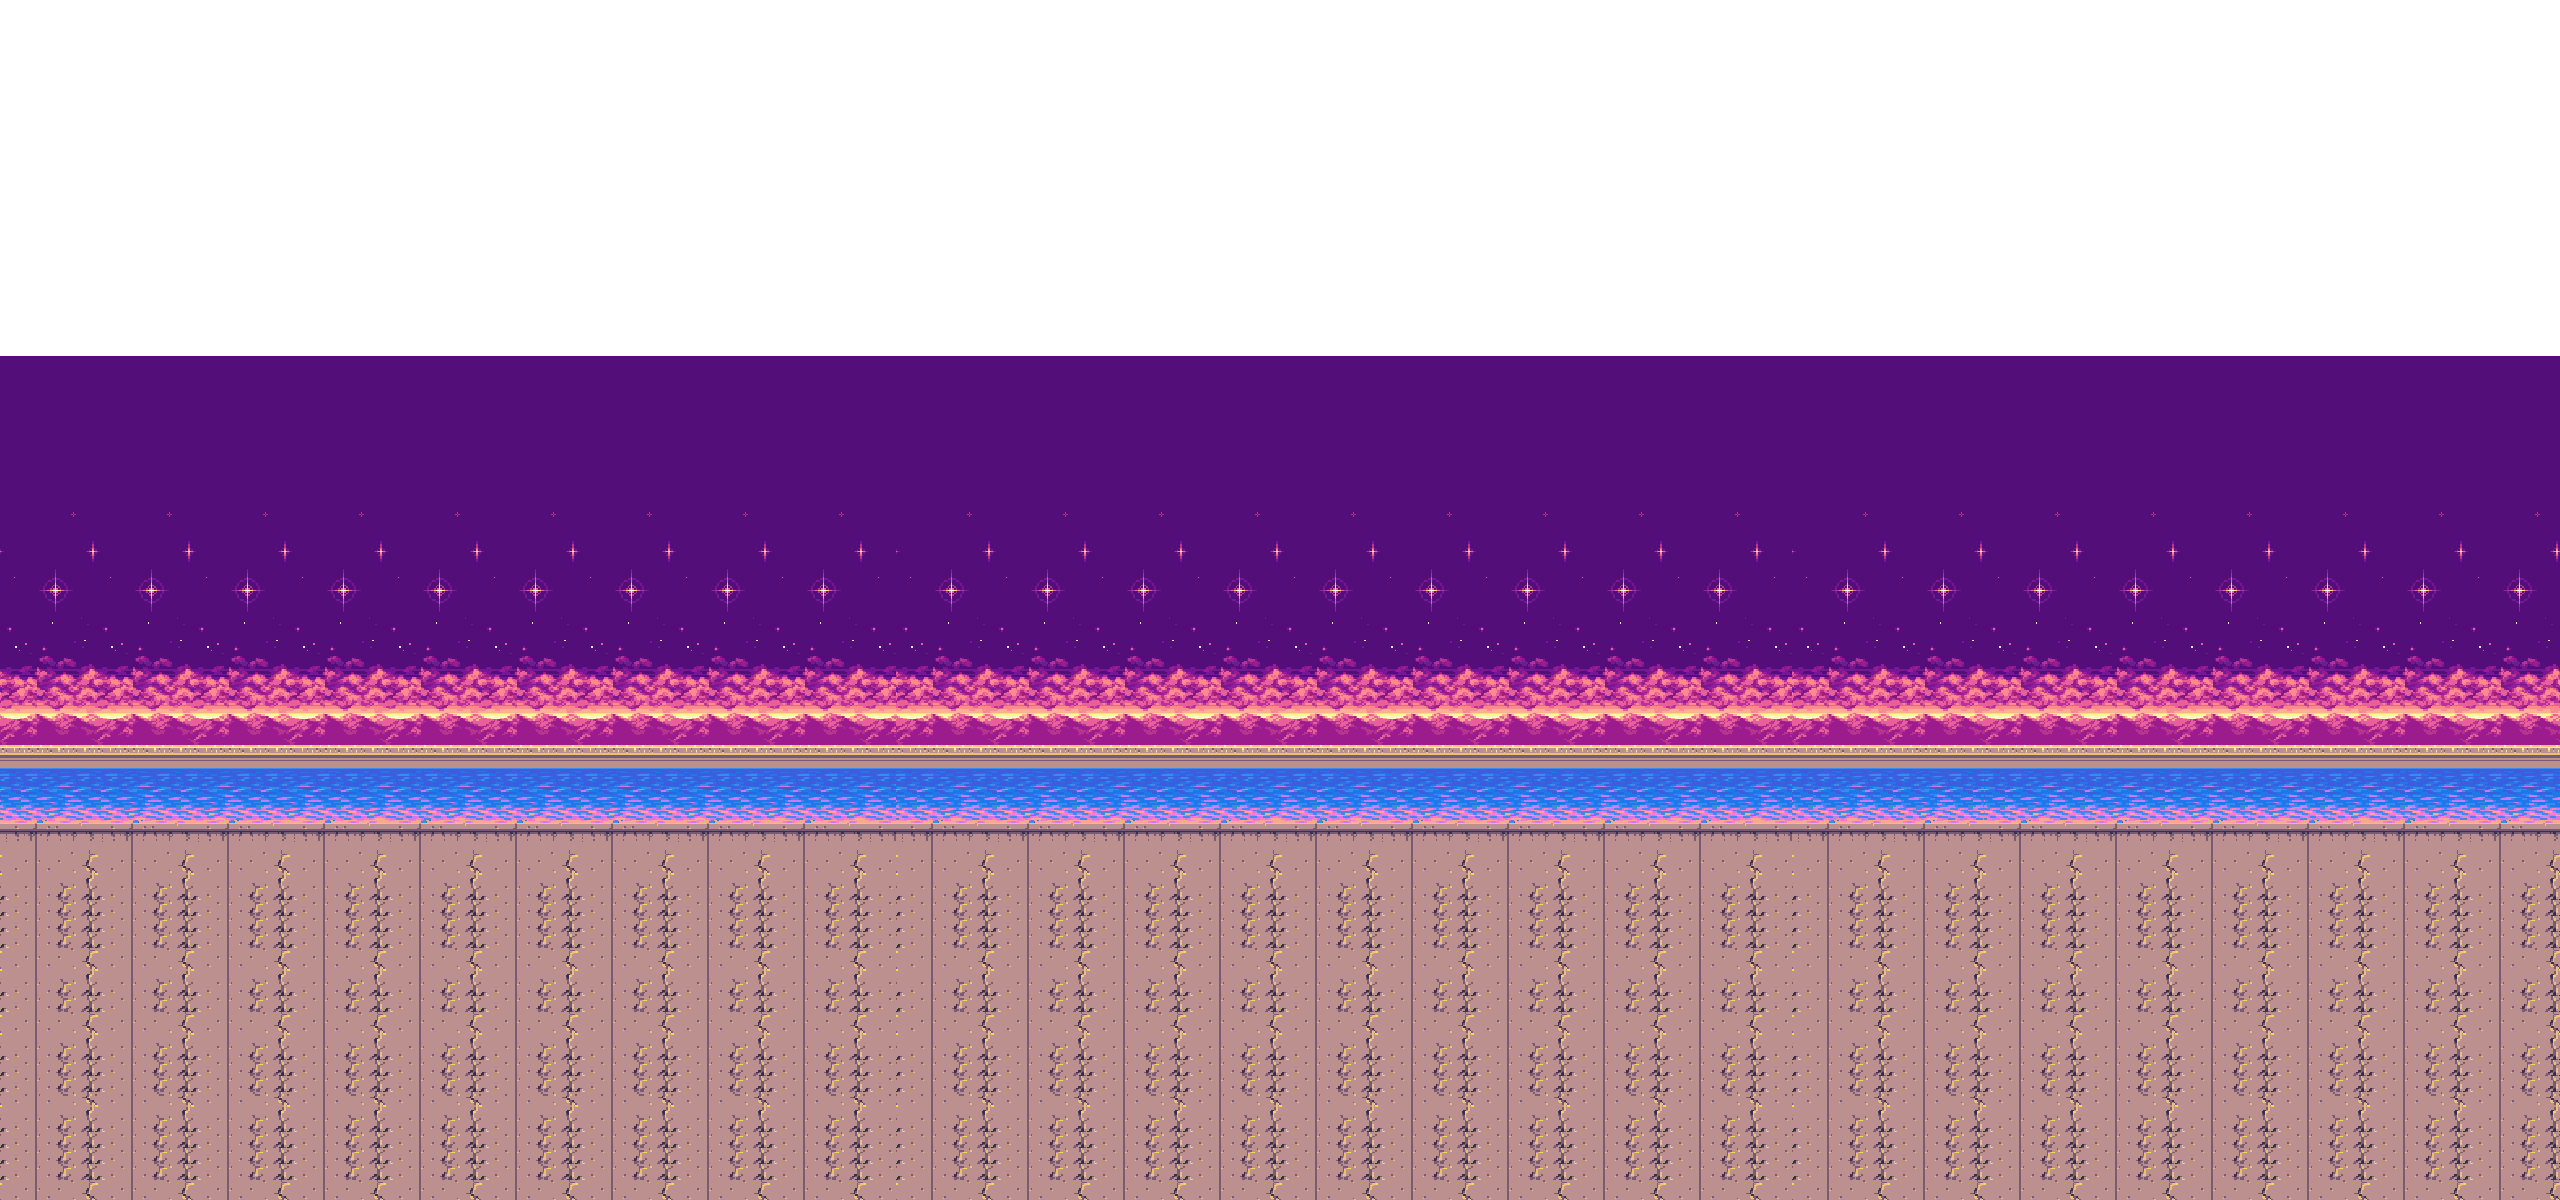
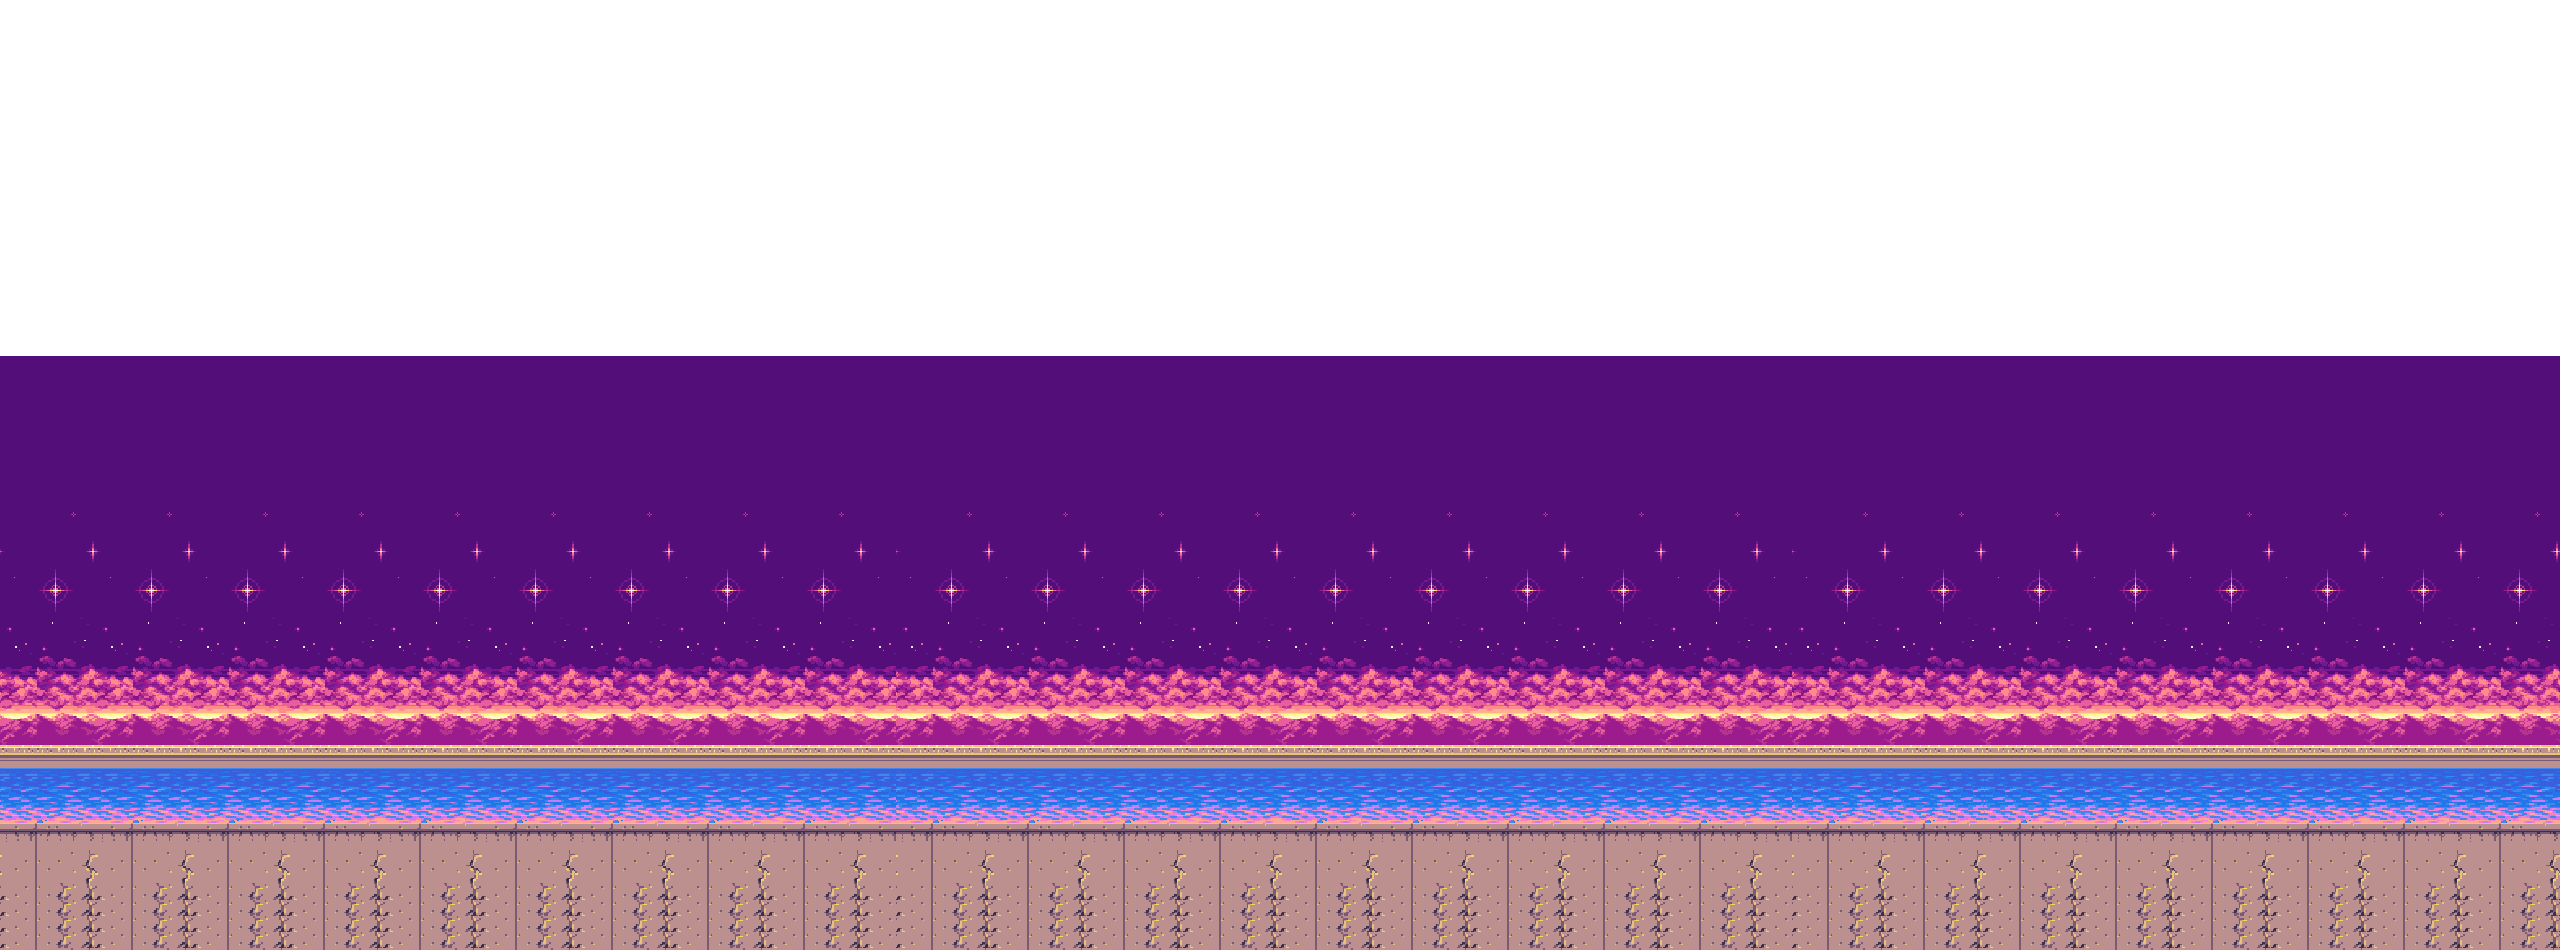
zoomed in background

diff --git a/src/pages/Download.tsx b/src/pages/Download.tsx
@@ -44,8 +44,8 @@ const Download = () => {
     <div className="m-auto text-white font-outfit text-xl lg:text-xl 2xl:text-3xl">
       {/* Hill and water backgrounds */}
       <div className="relative w-full min-h-screen bg-fixed overflow-hidden bg-[#530e7a]">
-        <div className="backgroundLayer repeatBGLayer bg-[url(/BG_DW_1.png)]"/>
-        <div className="backgroundLayer bg-[url(/BG_DW_2.png)]"/>
+        <div className="backgroundLayerBig repeatBGLayer bg-[url(/BG_DW_1.png)]"/>
+        <div className="backgroundLayerBig bg-[url(/BG_DW_2.png)]"/>
         
         <div className='relative w-full min-h-screen flex gap-10 flex-col lg:flex-row justify-center align-middle items-center '>
           <div>

diff --git a/src/style.css b/src/style.css
@@ -16,6 +16,10 @@
   @apply absolute inset-0 bg-size-[1500px_auto] bg-bottom bg-no-repeat;
 }
 
+.backgroundLayerBig {
+  @apply absolute inset-0 bg-size-[2300px_auto] bg-bottom bg-no-repeat;
+}
+
 .repeatBGLayer {
   @apply bg-repeat-x;
 }
